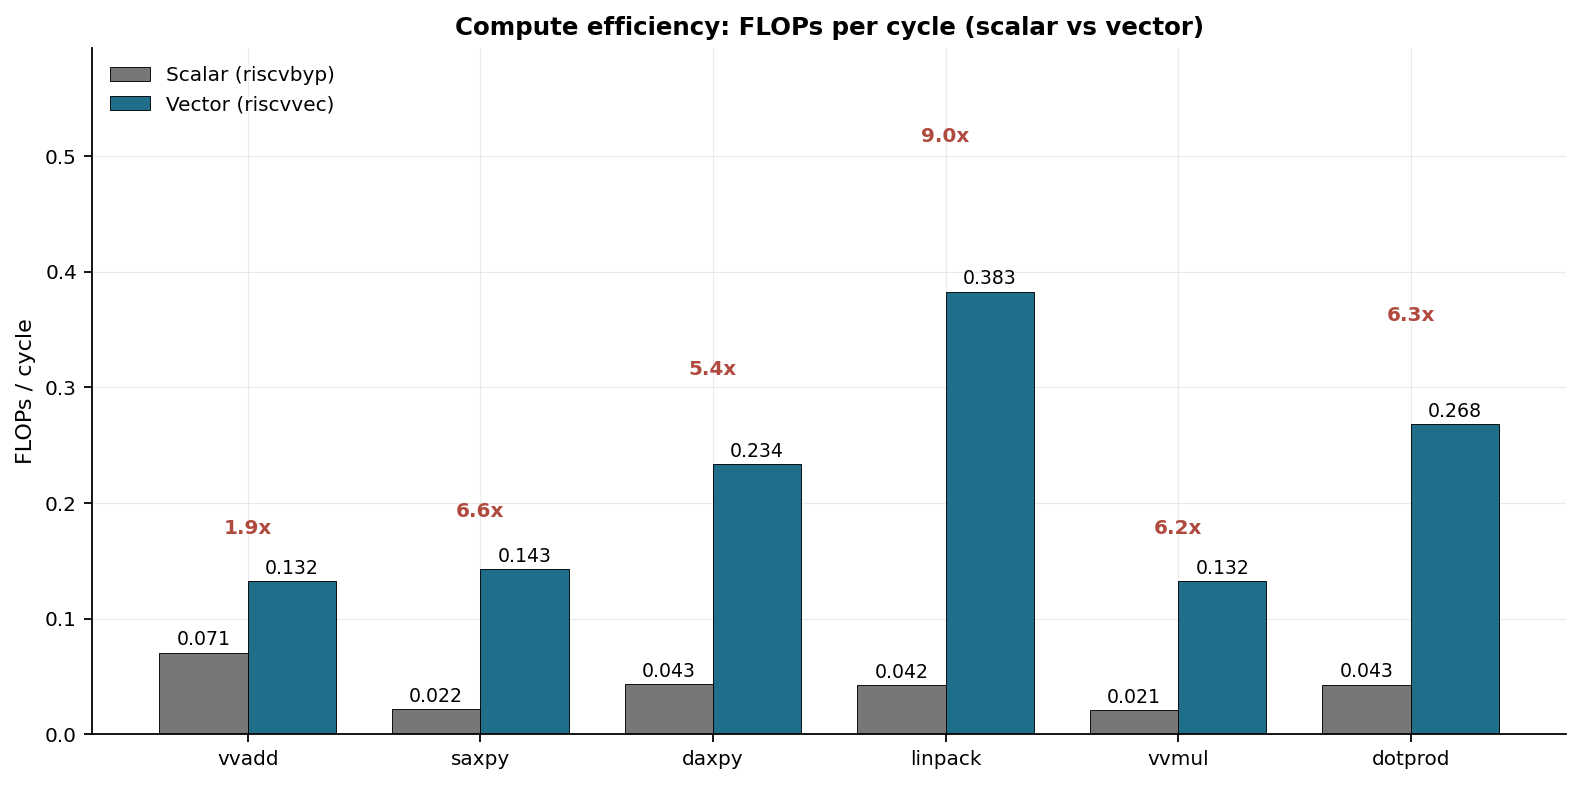
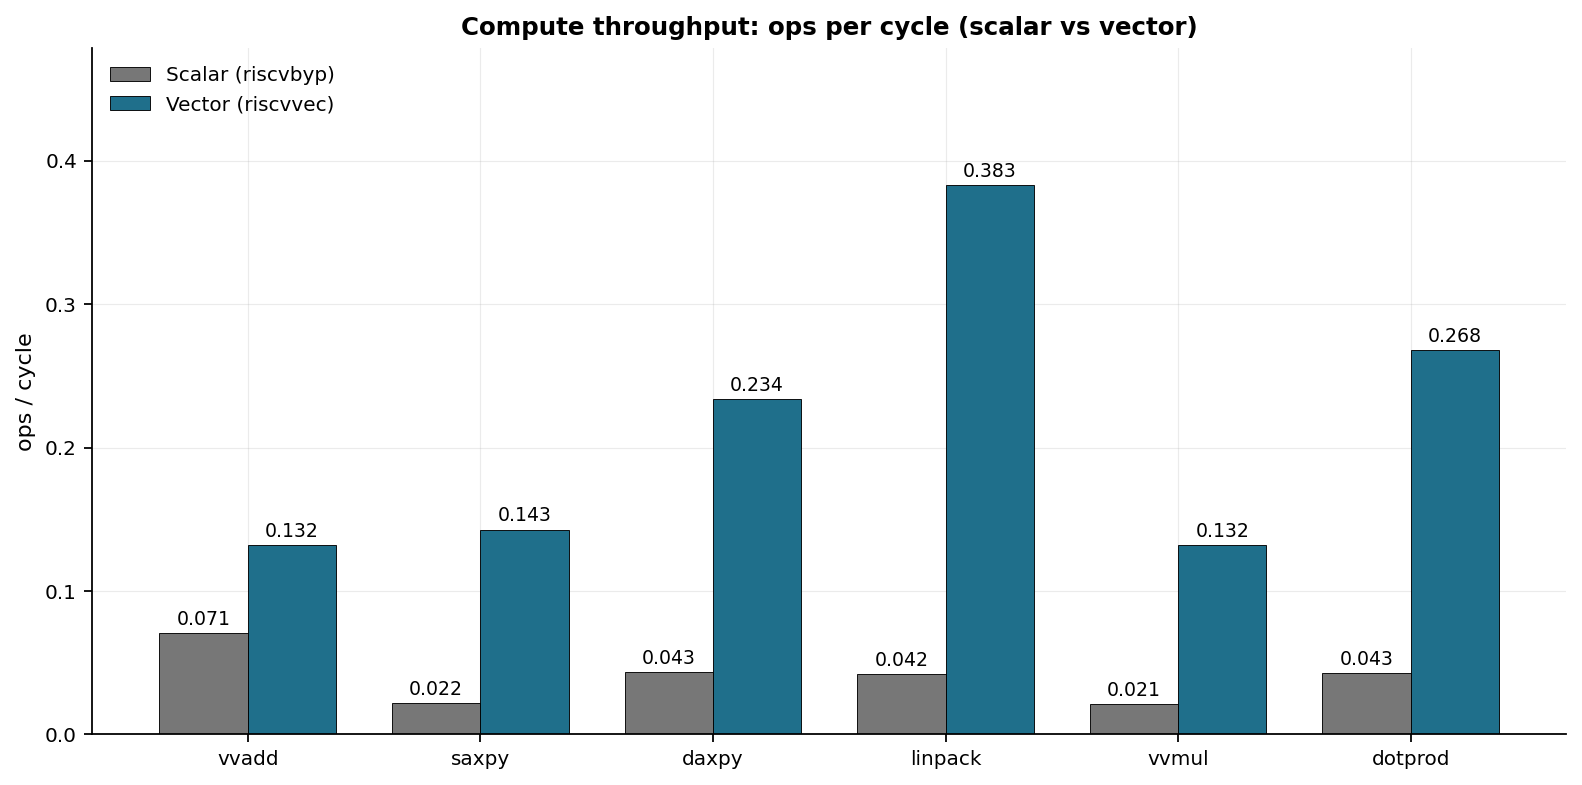
Rename FLOPs/cycle to ops/cycle (integer-only coprocessor)

diff --git a/bench/make_plots.py b/bench/make_plots.py
@@ -590,19 +590,12 @@ def fig_flops_per_cycle(processors, main_rows, benchmarks_cfg) -> Path:
     for bar, v in zip(bars2, vector_fpc):
         ax.text(bar.get_x() + bar.get_width()/2, v + 0.003, f"{v:.3f}",
                 ha="center", va="bottom", fontsize=8.5)
-    for i in range(len(labels)):
-        if scalar_fpc[i] > 0:
-            ratio = vector_fpc[i] / scalar_fpc[i]
-            ymax = max(scalar_fpc[i], vector_fpc[i])
-            ax.text(x[i], ymax * 1.35, f"{ratio:.1f}x",
-                    ha="center", va="center", fontsize=9, fontweight="bold",
-                    color="#b04a3f")
     ax.set_xticks(x)
     ax.set_xticklabels(labels)
-    ax.set_ylabel("FLOPs / cycle")
-    ax.set_title("Compute efficiency: FLOPs per cycle (scalar vs vector)")
+    ax.set_ylabel("ops / cycle")
+    ax.set_title("Compute throughput: ops per cycle (scalar vs vector)")
     ax.legend(loc="upper left")
-    ax.set_ylim(0, max(vector_fpc) * 1.55)
+    ax.set_ylim(0, max(vector_fpc) * 1.25)
     fig.tight_layout()
     return L.save(fig, "fig11_flops_per_cycle.png")
 
